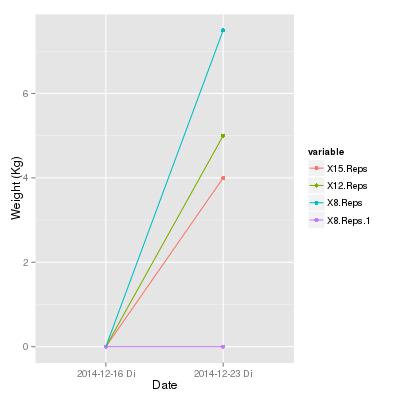
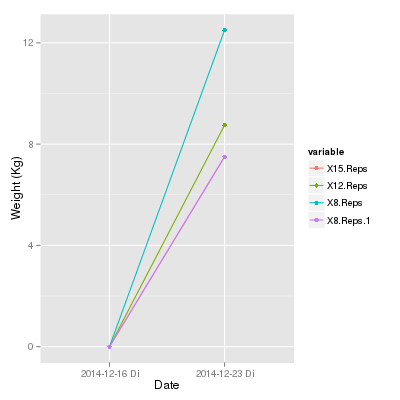
minor fixes

diff --git a/statistics.html b/statistics.html
@@ -4,7 +4,7 @@
 <html xmlns="http://www.w3.org/1999/xhtml" lang="en" xml:lang="en">
 <head>
 <title>Statistics</title>
-<!-- 2014-12-28 So 12:07 -->
+<!-- 2014-12-28 So 12:58 -->
 <meta  http-equiv="Content-Type" content="text/html;charset=utf-8" />
 <meta  name="generator" content="Org-mode" />
 <meta  name="author" content="thomas" />
@@ -231,15 +231,19 @@ for the JavaScript code in this tag.
 <div class="outline-text-2" id="text-1">
 <div class="org-src-container">
 
-<pre class="src src-emacs-lisp" id="initialize">(setq beast-org-file <span style="font-style: italic;">"workouts-example.org"</span>)
+<pre class="src src-emacs-lisp" id="initialize">(setq beast-org-file <span style="font-style: italic;">"workouts-example.org"</span>) <span style="font-weight: bold; font-style: italic;">; </span><span style="font-weight: bold; font-style: italic;">use absolute path or file goes to ~/org</span>
 (load-file <span style="font-style: italic;">"src/beast-org.el"</span>)
 </pre>
 </div>
 
+<pre class="example">
+t
+</pre>
+
 <div class="org-src-container">
 
 <pre class="src src-emacs-lisp" id="capture-templates">(setq org-capture-templates
-      '((<span style="font-style: italic;">"w"</span> <span style="font-style: italic;">"workout"</span> entry (file+datetree beast-org-file) <span style="font-style: italic;">"* %?\&#326;"</span>)
+      '((<span style="font-style: italic;">"w"</span> <span style="font-style: italic;">"workout"</span> entry (file+datetree beast-org-file) <span style="font-style: italic;">"* %? \n SCHEDULED: %t\n"</span>)
         (<span style="font-style: italic;">"e"</span> <span style="font-style: italic;">"beast abs"</span> entry (file+datetree beast-org-file) <span style="font-style: italic;">"* Beast Abs :bodybeast:beast:abs: \n %?"</span>)
         (<span style="font-style: italic;">"c"</span> <span style="font-style: italic;">"bulk chest"</span> entry (file+datetree beast-org-file) <span style="font-style: italic;">"%[capturetemplates/bulkchest.org]"</span>)
         (<span style="font-style: italic;">"l"</span> <span style="font-style: italic;">"bulk legs"</span> entry (file+datetree beast-org-file) <span style="font-style: italic;">"%[capturetemplates/bulklegs.org]"</span>)
@@ -249,13 +253,8 @@ for the JavaScript code in this tag.
         (<span style="font-style: italic;">"r"</span> <span style="font-style: italic;">"running"</span> entry (file+datetree beast-org-file) <span style="font-style: italic;">"* Running :running: \n SCHEDULED: %t\n %^{Time}p"</span>)))
 </pre>
 </div>
-
-<pre class="example">
-t
-</pre>
 </div>
 </div>
-
 
 
 <div id="outline-container-sec-2" class="outline-2">
@@ -316,8 +315,7 @@ q
 <div class="outline-text-4" id="text-3-1-1">
 <div class="org-src-container">
 
-<pre class="src src-emacs-lisp" id="inclinefly">(load-file <span style="font-style: italic;">"src/beast-org.el"</span>)
-(make-table <span style="font-style: italic;">"+bulk:chest"</span> <span style="font-style: italic;">"Incline Fly"</span> <span style="font-style: italic;">"singleset"</span>)
+<pre class="src src-emacs-lisp" id="inclinefly">(make-table <span style="font-style: italic;">"+bulk:chest"</span> <span style="font-style: italic;">"Incline Fly"</span> <span style="font-style: italic;">"singleset"</span>)
 </pre>
 </div>
 
@@ -2041,7 +2039,7 @@ q
 <div class="outline-text-4" id="text-3-5-2">
 <div class="org-src-container">
 
-<pre class="src src-emacs-lisp" id="arnoldpress">(make-table <span style="font-style: italic;">"+bulk:shoulders"</span> <span style="font-style: italic;">"Lateral Raise"</span> <span style="font-style: italic;">"singleset2"</span>)
+<pre class="src src-emacs-lisp" id="arnoldpress">(make-table <span style="font-style: italic;">"+bulk:shoulders"</span> <span style="font-style: italic;">"Arnold Press"</span> <span style="font-style: italic;">"singleset2"</span>)
 </pre>
 </div>
 
@@ -2079,10 +2077,10 @@ q
 
 <tr>
 <td class="left">2014-12-23 Di</td>
-<td class="right">4</td>
-<td class="right">5</td>
 <td class="right">7.5</td>
-<td class="right">0</td>
+<td class="right">8.75</td>
+<td class="right">12.5</td>
+<td class="right">7.5</td>
 </tr>
 </tbody>
 </table>
@@ -2445,7 +2443,7 @@ q
 </div>
 <div id="postamble" class="status">
 <p class="author">Author: thomas</p>
-<p class="date">Created: 2014-12-28 So 12:07</p>
+<p class="date">Created: 2014-12-28 So 12:58</p>
 <p class="creator"><a href="http://www.gnu.org/software/emacs/">Emacs</a> 24.3.50.1 (<a href="http://orgmode.org">Org</a> mode 8.2.10)</p>
 <p class="validation"><a href="http://validator.w3.org/check?uri=referer">Validate</a></p>
 </div>

diff --git a/README.md b/README.md
@@ -7,7 +7,12 @@
 <li><a href="#sec-1-1">1.1. Capture Templates</a></li>
 <li><a href="#sec-1-2">1.2. Emacs-Lisp</a></li>
 <li><a href="#sec-1-3">1.3. R</a></li>
-<li><a href="#sec-1-4">1.4. Batch Export</a></li>
+<li><a href="#sec-1-4">1.4. Batch Export</a>
+<ul>
+<li><a href="#sec-1-4-1">1.4.1. HTML</a></li>
+<li><a href="#sec-1-4-2">1.4.2. Markdown</a></li>
+</ul>
+</li>
 </ul>
 </li>
 </ul>
@@ -39,4 +44,12 @@ R needs zoo, ggplot2 and reshape2
 
 ## Batch Export<a id="sec-1-4" name="sec-1-4"></a>
 
+### HTML<a id="sec-1-4-1" name="sec-1-4-1"></a>
+
     emacs -l init.el statistics.org --batch -f org-html-export-to-html --kill
+
+### Markdown<a id="sec-1-4-2" name="sec-1-4-2"></a>
+
+    emacs -l init.el statistics.org --batch -f org-md-export-as-markdown --kill
+
+Needs ox-md: `(require 'ox-md)`
